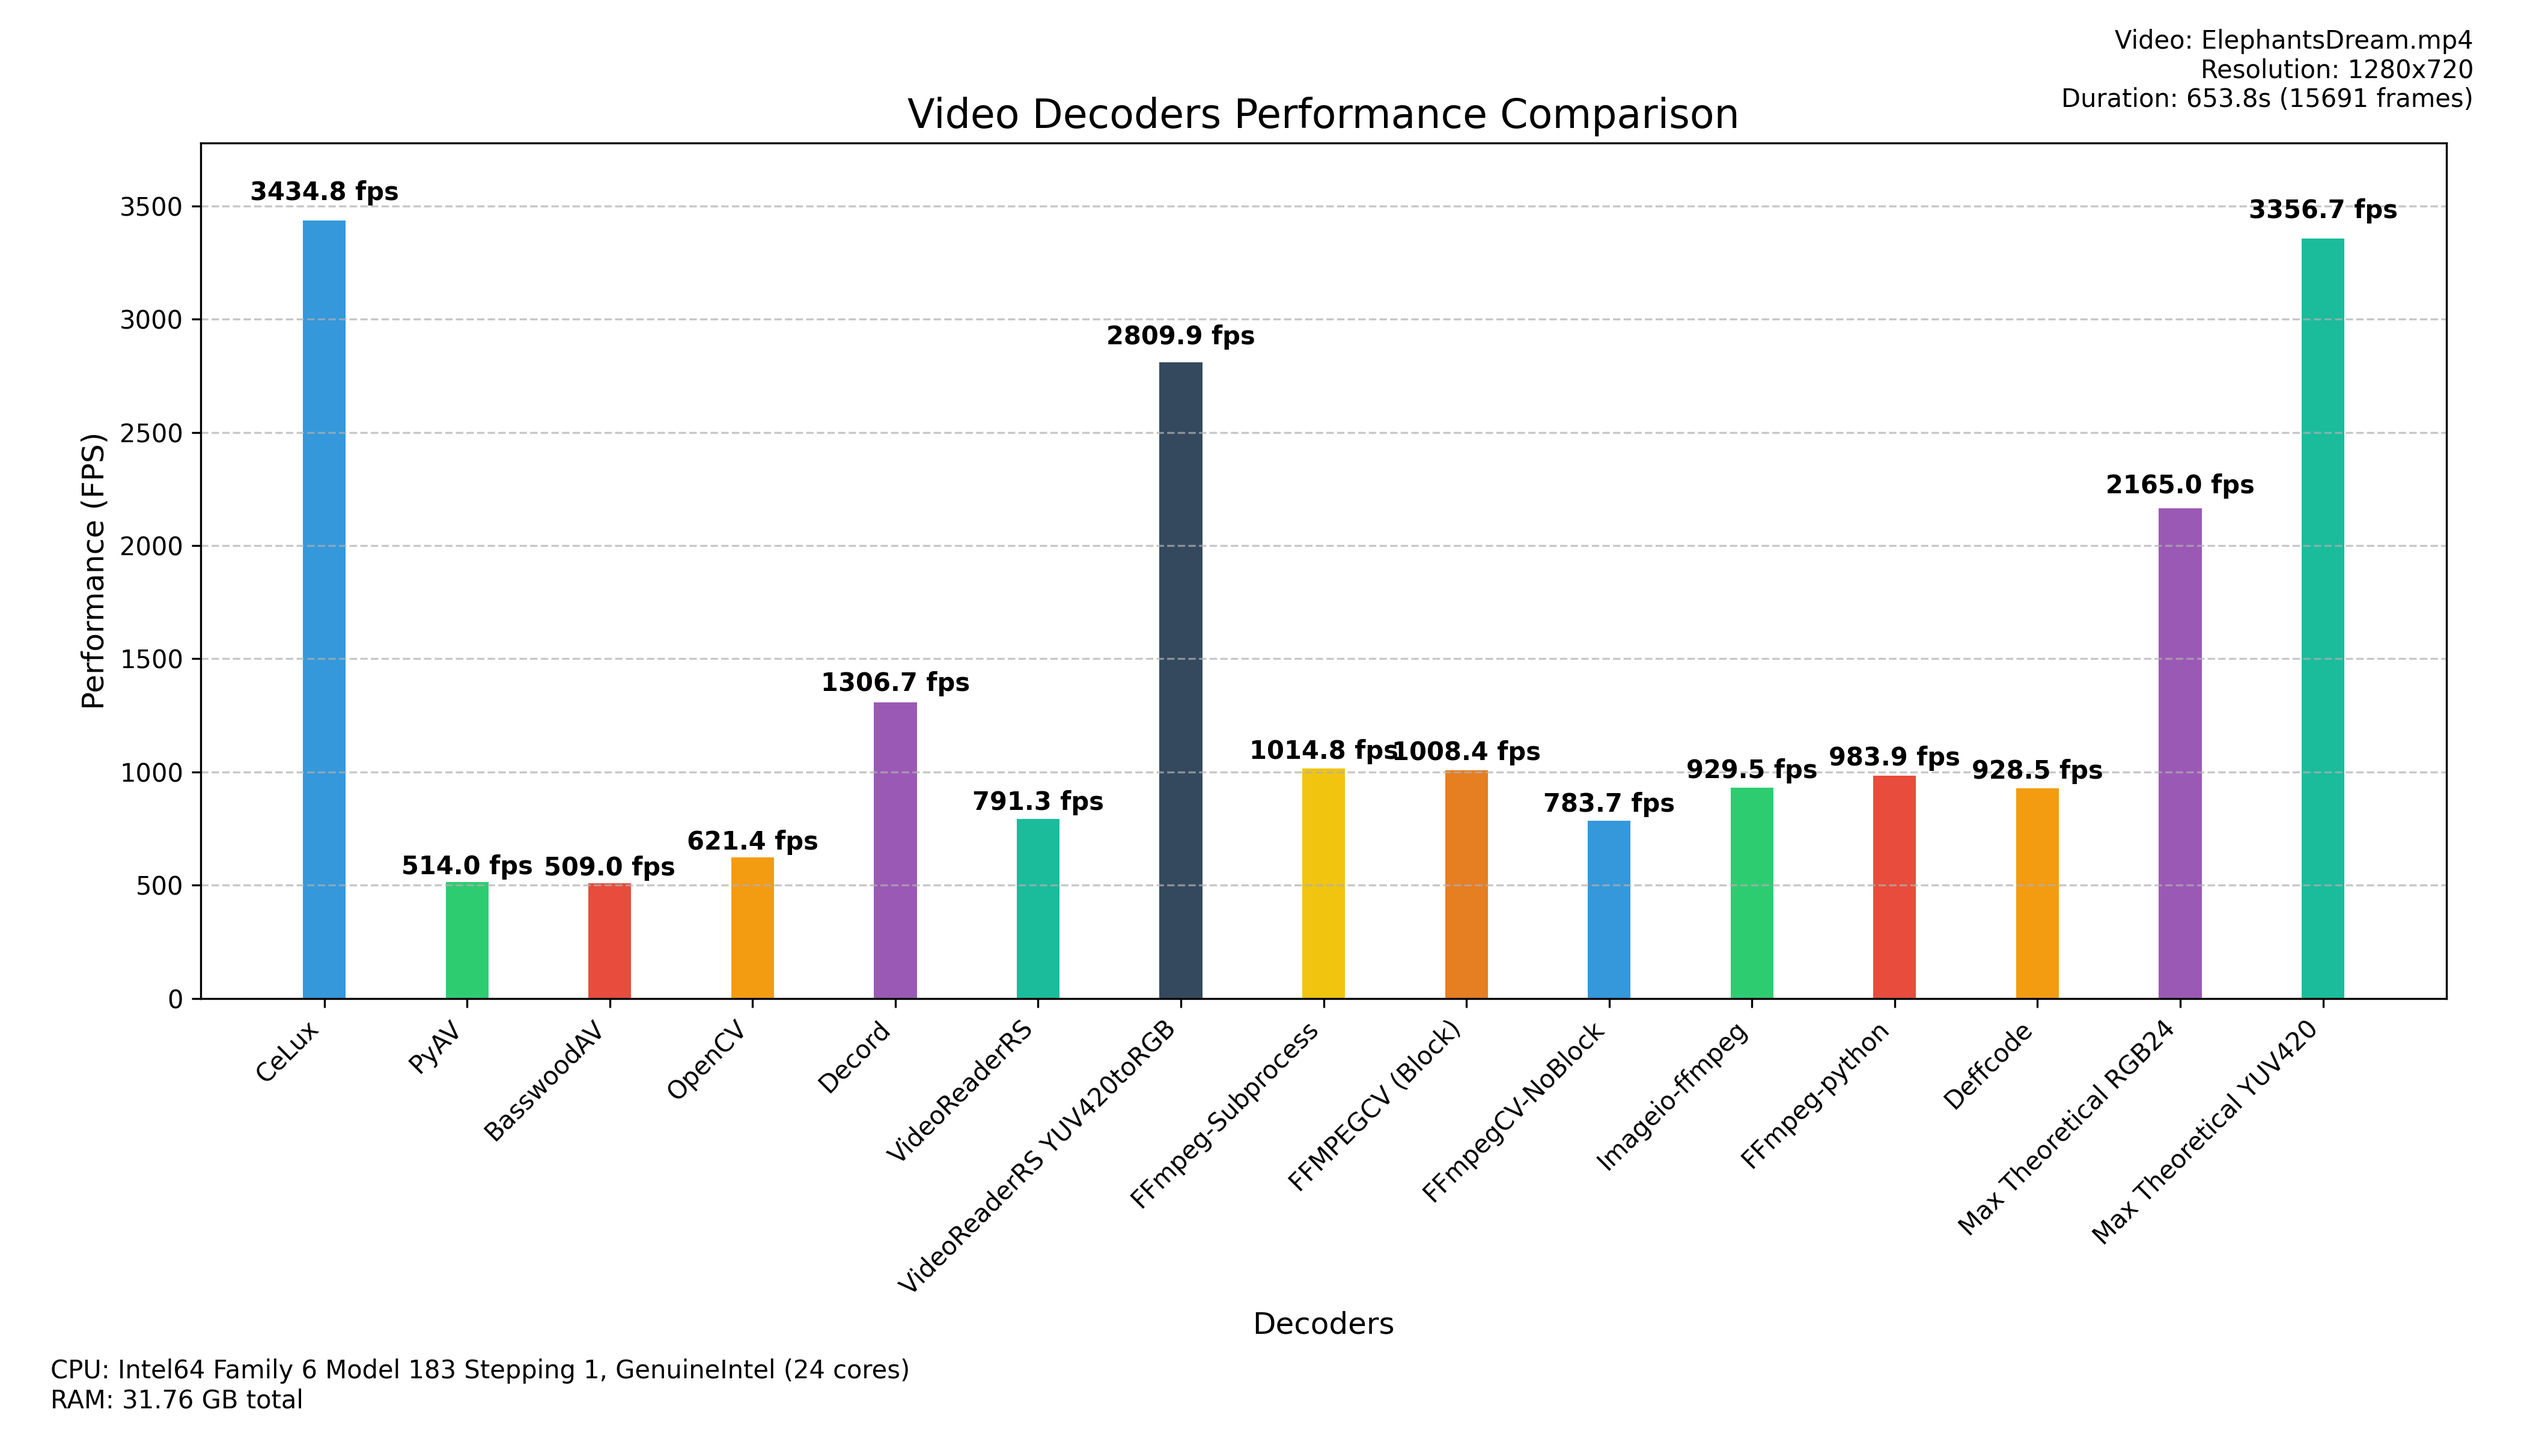
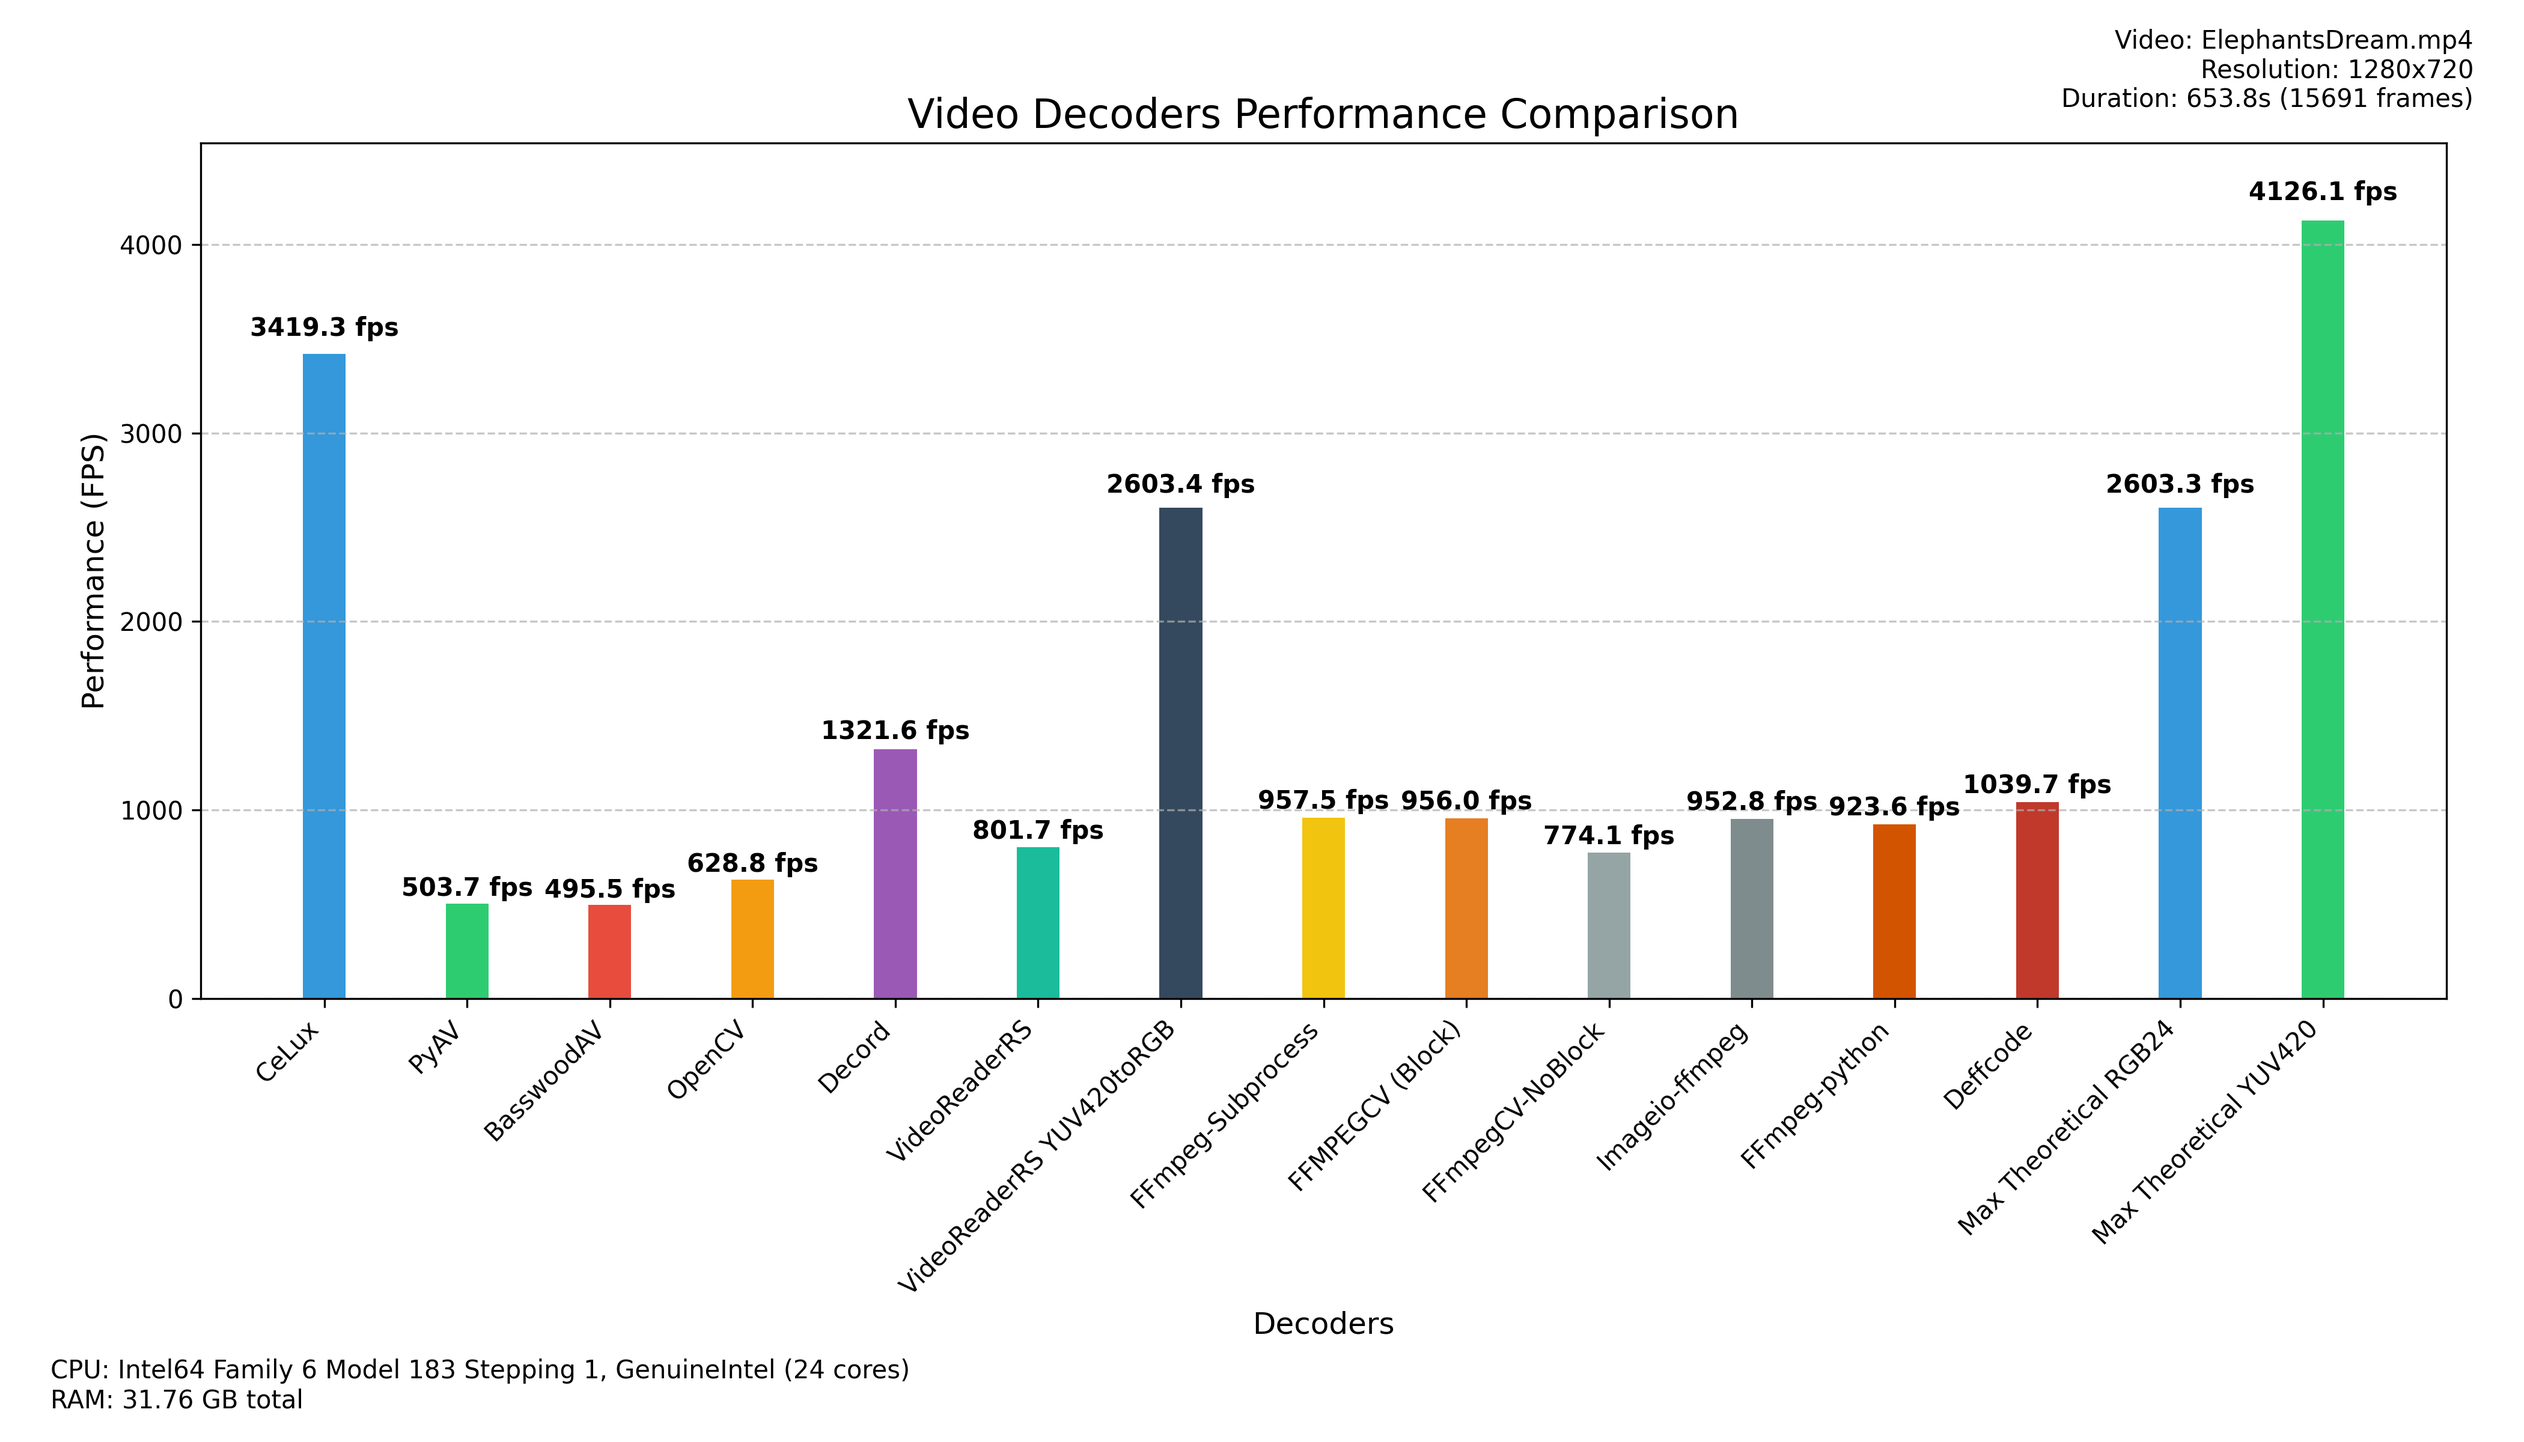
update diagrams

diff --git a/480x270_results_frame_count_comparison.md b/480x270_results_frame_count_comparison.md
@@ -1,19 +1,19 @@
-| Decoder                   | Frames Decoded | Matches OpenCV? |
-|---------------------------|----------------|-----------------|
-| CeLux                     | 17796          | ✅               |
-| PyAV                      | 17796          | ✅               |
-| BasswoodAV                | 17796          | ✅               |
-| OpenCV                    | 17796          | ✅               |
-| torchaudio                | 0              | ❌               |
-| TorchCodec                | 0              | ❌               |
-| Decord                    | 17796          | ✅               |
-| VideoReaderRS             | 17796          | ✅               |
-| VideoReaderRS YUV420toRGB | 17796          | ✅               |
-| FFmpeg-Subprocess         | 17796          | ✅               |
-| FFMPEGCV (Block)          | 17796          | ✅               |
-| FFmpegCV-NoBlock          | 17796          | ✅               |
-| Imageio-ffmpeg            | 17797          | ❌               |
-| FFmpeg-python             | 17796          | ✅               |
-| Deffcode                  | 17796          | ✅               |
-| Max Theoretical RGB24     | 17796          | ✅               |
-| Max Theoretical YUV420    | 17796          | ✅               |
+| Decoder | Frames Decoded | Matches OpenCV? |
+|---------|----------------|-----------------|
+| CeLux | 17796 | ✅ |
+| PyAV | 17796 | ✅ |
+| BasswoodAV | 17796 | ✅ |
+| OpenCV | 17796 | ✅ |
+| torchaudio | 0 | ❌ |
+| TorchCodec | 0 | ❌ |
+| Decord | 17796 | ✅ |
+| VideoReaderRS | 17796 | ✅ |
+| VideoReaderRS YUV420toRGB | 17796 | ✅ |
+| FFmpeg-Subprocess | 17796 | ✅ |
+| FFMPEGCV (Block) | 17796 | ✅ |
+| FFmpegCV-NoBlock | 17796 | ✅ |
+| Imageio-ffmpeg | 17797 | ❌ |
+| FFmpeg-python | 17796 | ✅ |
+| Deffcode | 17796 | ✅ |
+| Max Theoretical RGB24 | 17796 | ✅ |
+| Max Theoretical YUV420 | 17796 | ✅ |

diff --git a/1280x720_results_frame_count_comparison.md b/1280x720_results_frame_count_comparison.md
@@ -1,0 +1,19 @@
+| Decoder | Frames Decoded | Matches OpenCV? |
+|---------|----------------|-----------------|
+| CeLux | 15691 | ✅ |
+| PyAV | 15691 | ✅ |
+| BasswoodAV | 15691 | ✅ |
+| OpenCV | 15691 | ✅ |
+| torchaudio | 0 | ❌ |
+| TorchCodec | 0 | ❌ |
+| Decord | 15691 | ✅ |
+| VideoReaderRS | 15691 | ✅ |
+| VideoReaderRS YUV420toRGB | 15691 | ✅ |
+| FFmpeg-Subprocess | 15691 | ✅ |
+| FFMPEGCV (Block) | 15691 | ✅ |
+| FFmpegCV-NoBlock | 15691 | ✅ |
+| Imageio-ffmpeg | 15692 | ❌ |
+| FFmpeg-python | 15691 | ✅ |
+| Deffcode | 15691 | ✅ |
+| Max Theoretical RGB24 | 15691 | ✅ |
+| Max Theoretical YUV420 | 15691 | ✅ |

diff --git a/README.md b/README.md
@@ -31,8 +31,9 @@ This project benchmarks the performance (Frames Per Second - FPS) of various Pyt
 
 ## Benchmark Results Example
 
-![Benchmark Chart](decoder_performance.png)
+![Benchmark Chart](1280x720_diagram.png)
 *(Results generated by the benchmark script. Actual performance will vary based on your system hardware and the video file.)*
+
 
 ## Installation
 
